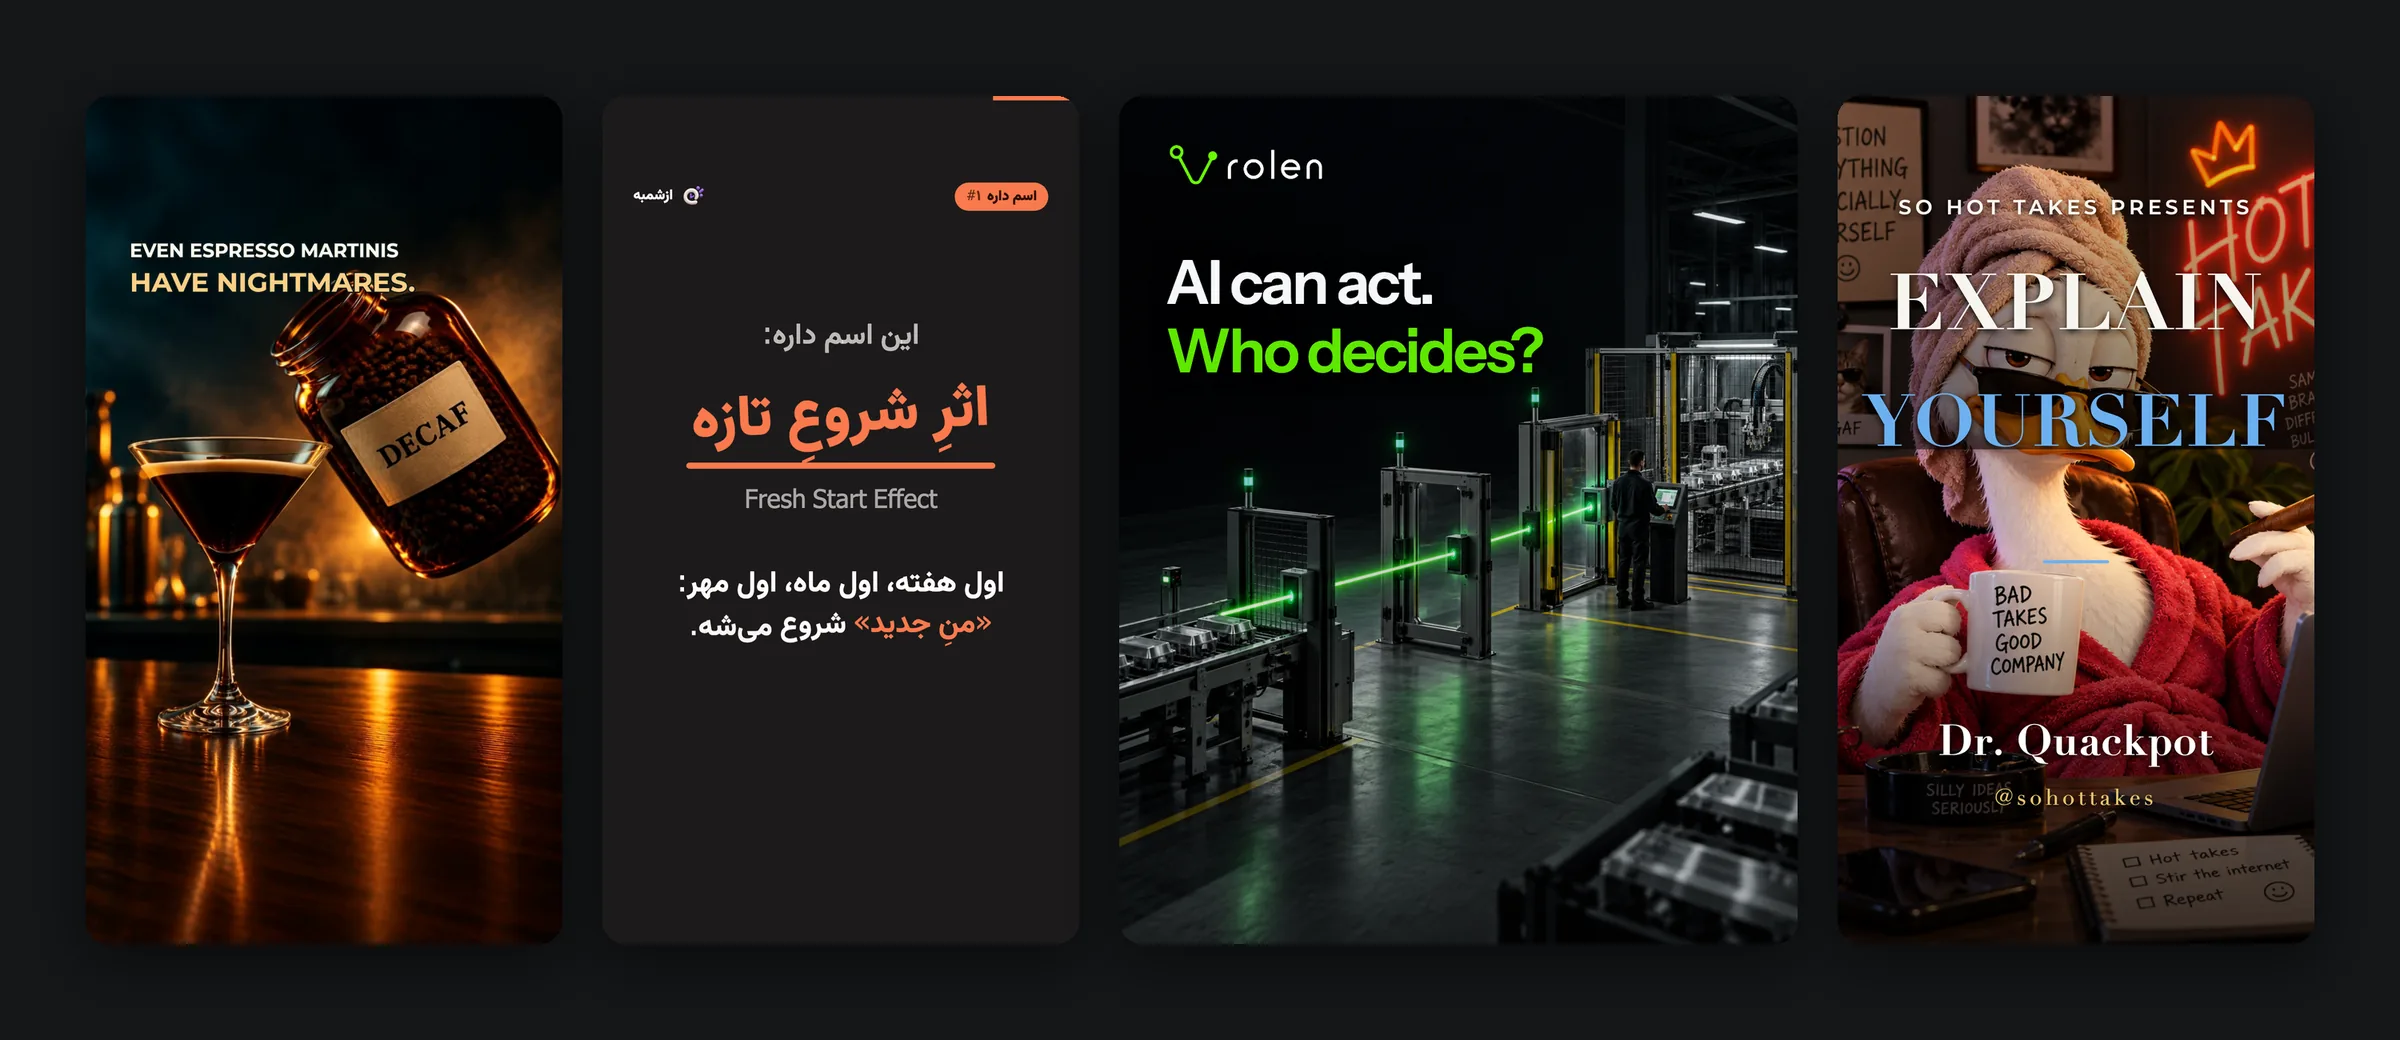
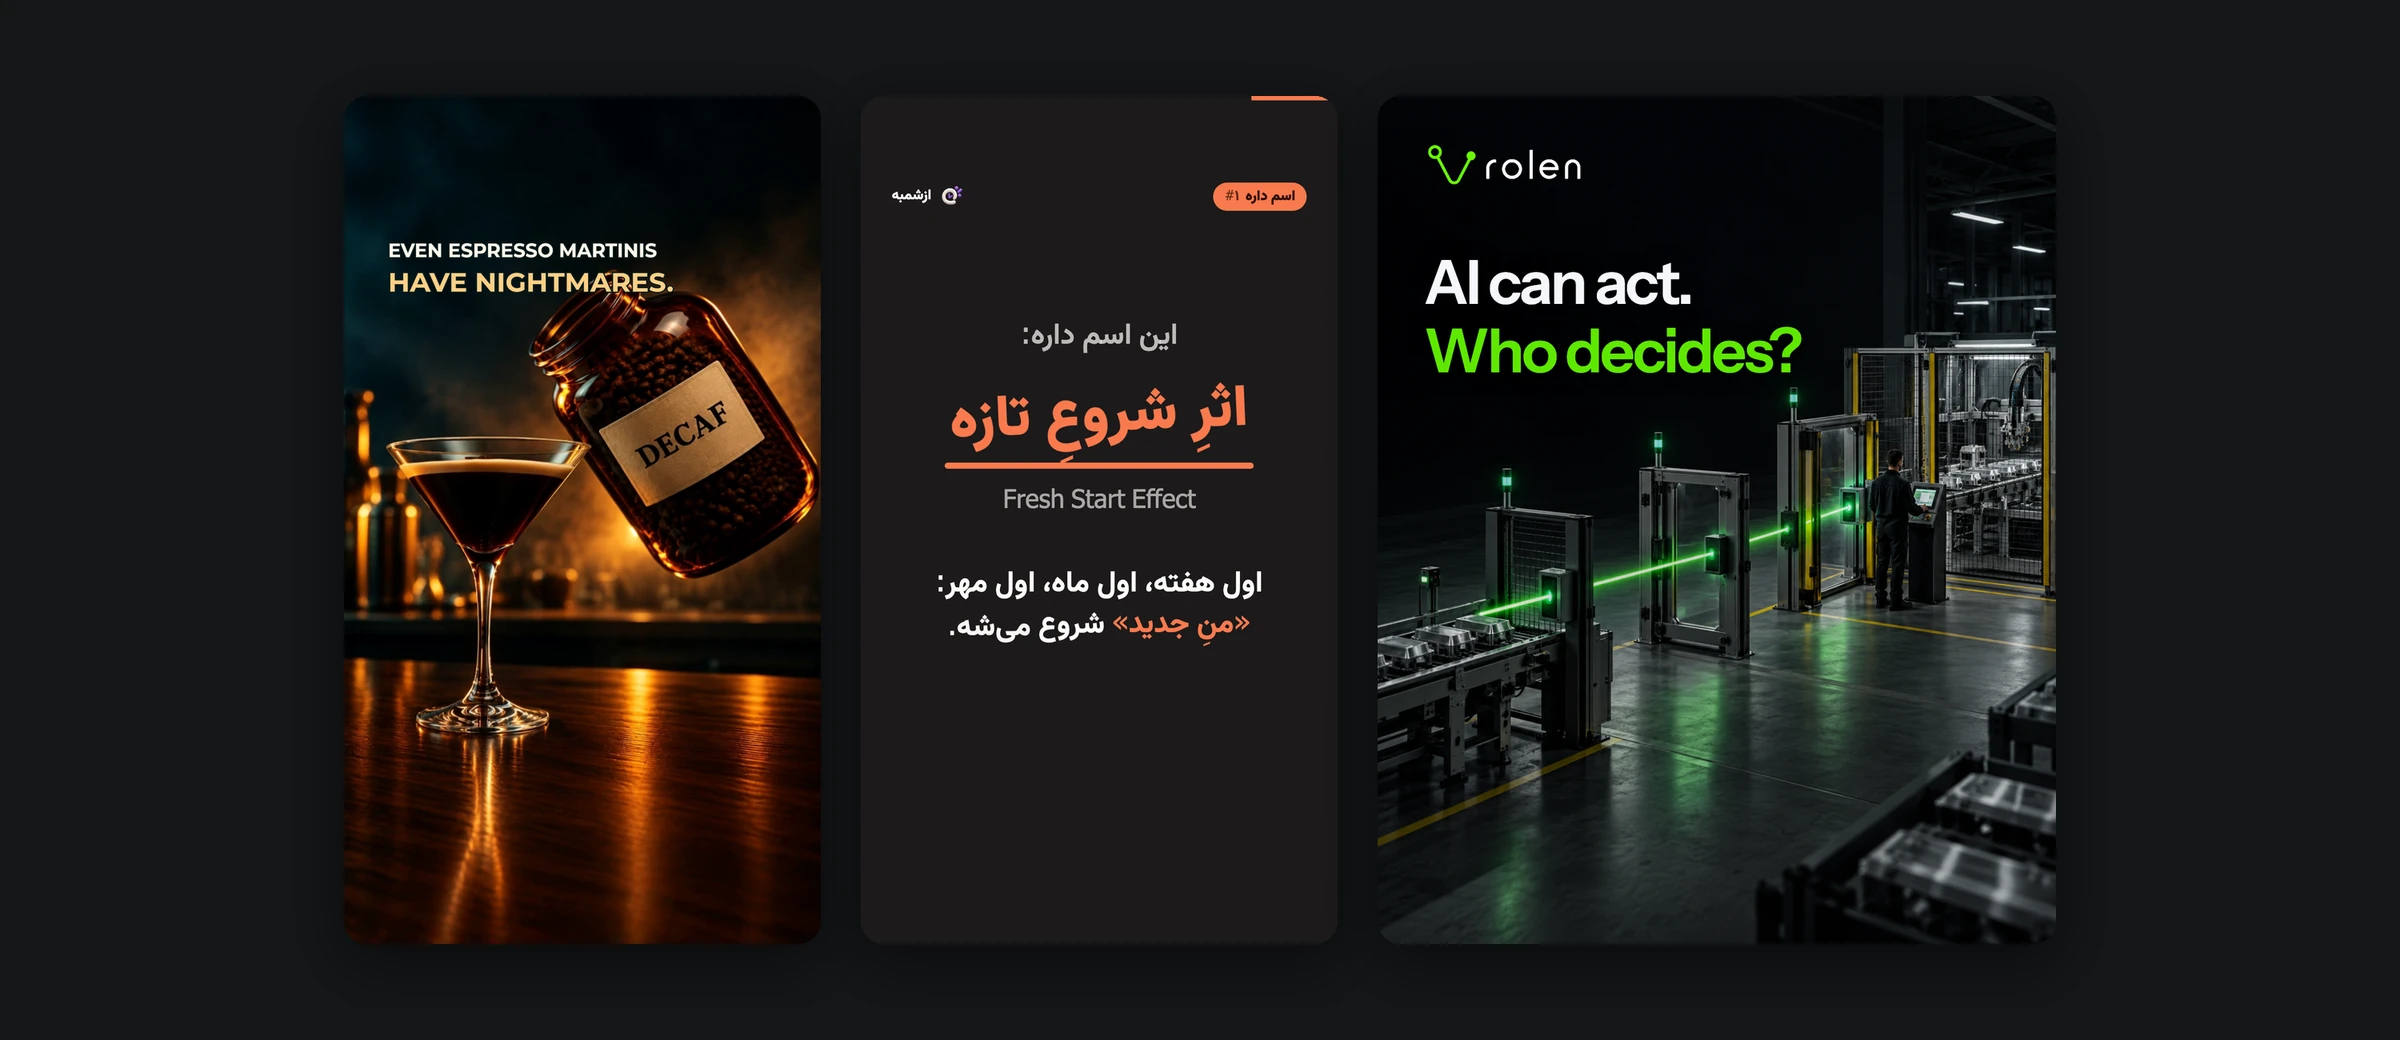
Content engine: remove the Dr. Quackpot (sohottakes) channel
Drop its card from the lead image and its mentions in the copy; brands 5 to 4.

diff --git a/content/site.ts b/content/site.ts
@@ -290,19 +290,19 @@ export const works: Work[] = [
     name: "Content engine",
     line: "The system that writes, films, scores and schedules posts for my products, from a spare Mac.",
     status: "Running",
-    image: { src: "/work/content-engine/posts.webp", alt: "Four finished posts: an Elixiary reel, an Azshambe explainer, a Vrolen LinkedIn visual and a Dr. Quackpot cover", width: 2400, height: 1040 },
+    image: { src: "/work/content-engine/posts.webp", alt: "Three finished posts: an Elixiary reel, an Azshambe explainer and a Vrolen LinkedIn visual", width: 2400, height: 1040 },
     gallery: [
       { src: "/work/content-engine/cast.webp", alt: "Finkavo's cast of nine illustrated characters", width: 2800, height: 406 },
       { src: "/work/content-engine/posts-2.webp", alt: "Four more posts: a 104-cocktail data reel, an Azshambe explainer, a Vrolen OEE visual and an Elixiary skit", width: 2400, height: 1040 },
     ],
     stats: [
-      { value: "5", label: "brands on Instagram, TikTok and LinkedIn" },
+      { value: "4", label: "brands on Instagram, TikTok and LinkedIn" },
       { value: "60+", label: "finished videos" },
     ],
     body: [
       "Each of my products needs a steady stream of posts, and I didn't want to spend my evenings making them.",
       "So I built a pipeline. Claude and ChatGPT write from real facts, like recipes from Elixiary's database or tax rules checked against primary sources. Higgsfield generates the shots, ElevenLabs the voices, and ffmpeg cuts everything to music.",
-      "It runs on a spare Mac at home, with n8n and Buffer handling the schedule, and most posts wait as drafts for my approval. It covers Elixiary, Finkavo, Vrolen, Azshambe and a comedy channel starring a duck professor, Dr. Quackpot.",
+      "It runs on a spare Mac at home, with n8n and Buffer handling the schedule, and most posts wait as drafts for my approval. It covers Elixiary, Finkavo, Vrolen and Azshambe.",
     ],
   },
 ];
